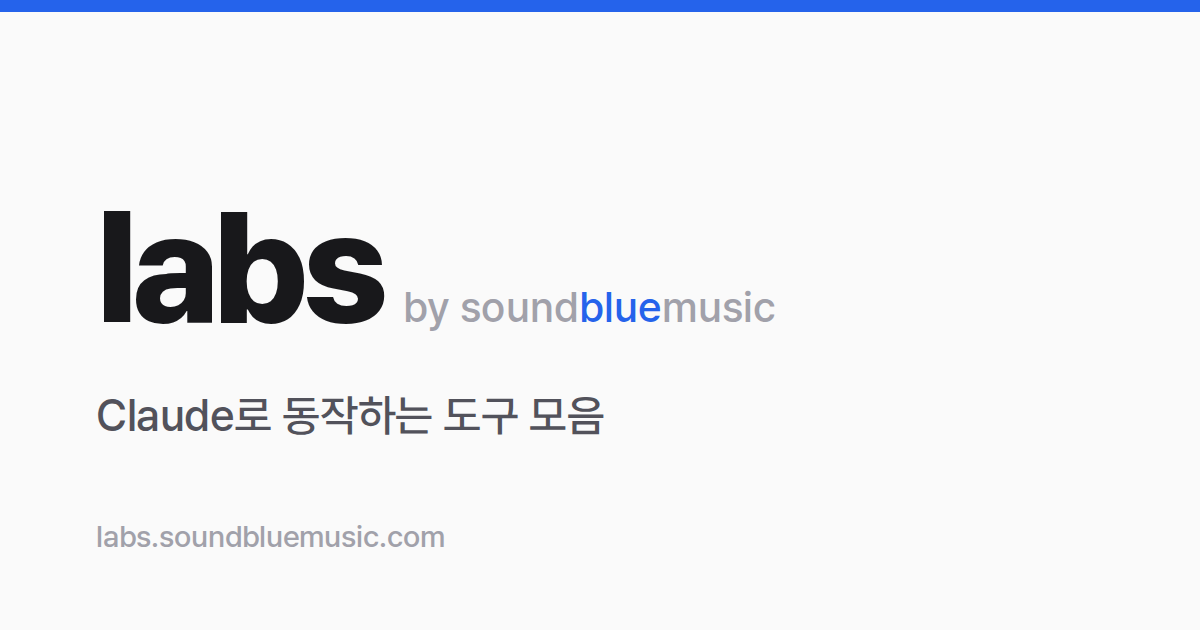
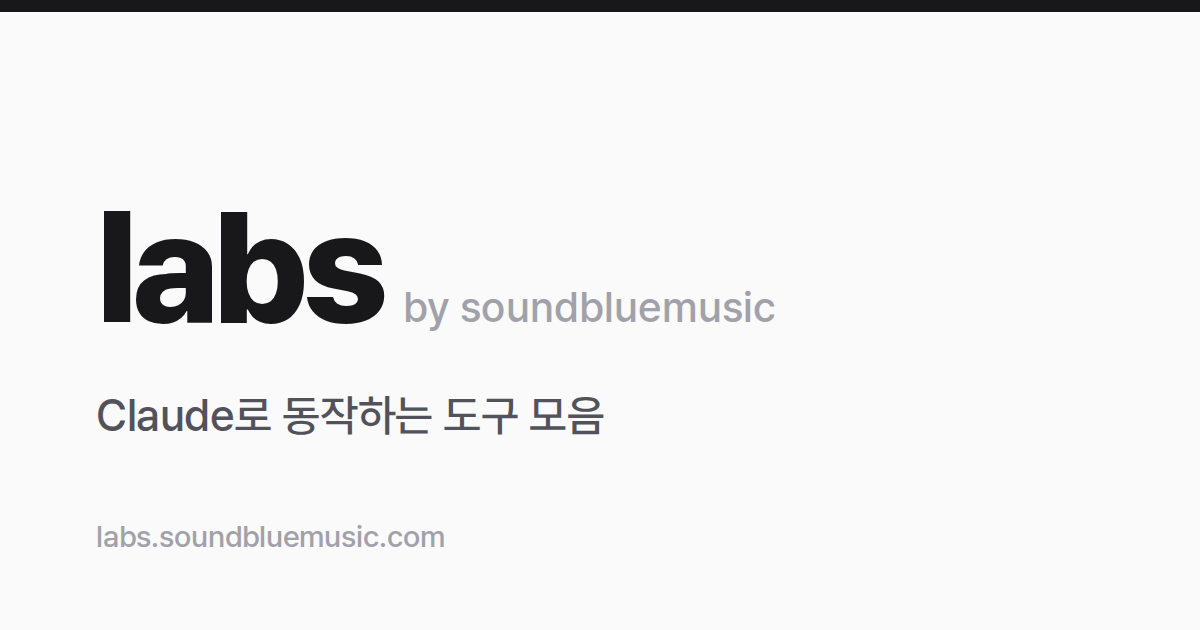
Switch to a fully monochrome palette
Replace the blue accent with a neutral near-black accent so the design
carries no brand or political color connotation. The wordmark is now
monochrome (no colored "blue"), the "login required" tag is a near-black
pill, and the favicon, theme-color, and OG image are neutralized.
Emphasis now comes from value contrast instead of hue.

Changed region(s): [[0.0, 0.0, 1.0, 0.0302], [0.4625, 0.4524, 0.555, 0.5127]]

diff --git a/src/styles/global.css b/src/styles/global.css
@@ -18,12 +18,13 @@
   --color-line: #e4e4e7;
   --color-line-subtle: #f4f4f5;
 
-  /* Single confident accent — "soundblue". Used sparingly. */
-  --color-accent: #2563eb;
-  --color-accent-strong: #1d4ed8;
+  /* Accent = neutral near-black (monochrome). No hue, so it avoids any
+     brand/political color reading; emphasis comes from value, not color. */
+  --color-accent: #18181b;
+  --color-accent-strong: #000000;
   --color-accent-fg: #ffffff;
-  --color-accent-soft: #eff4ff;
-  --color-accent-line: #d9e4ff;
+  --color-accent-soft: #f4f4f5;
+  --color-accent-line: #d4d4d8;
 }
 
 html {